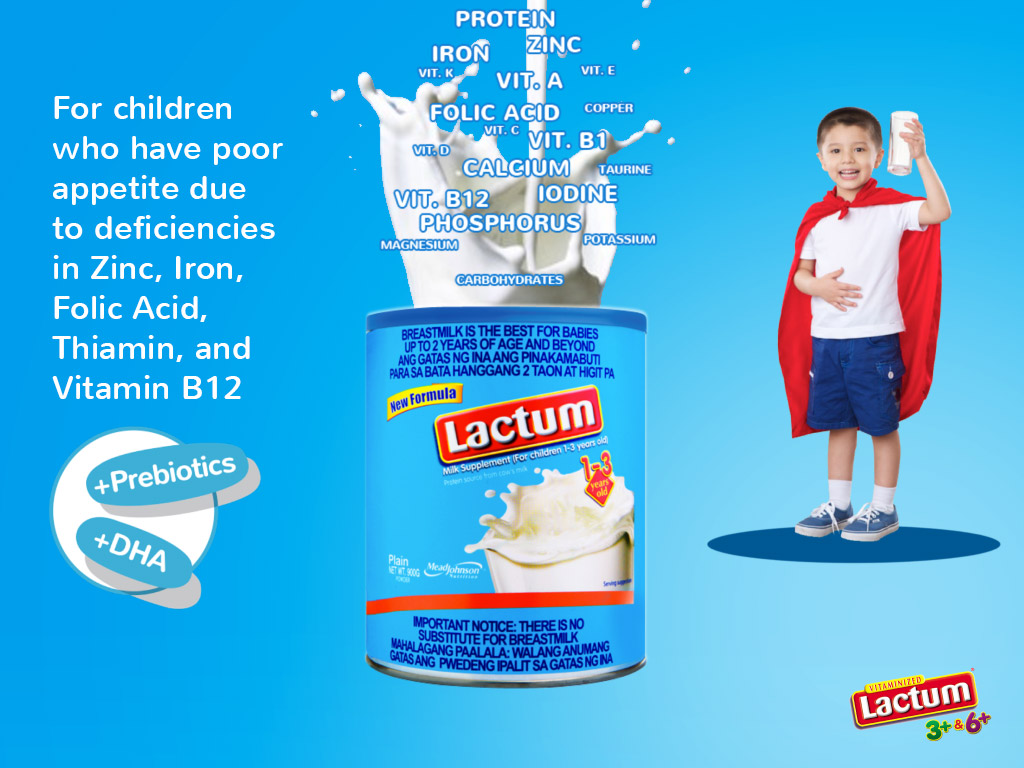
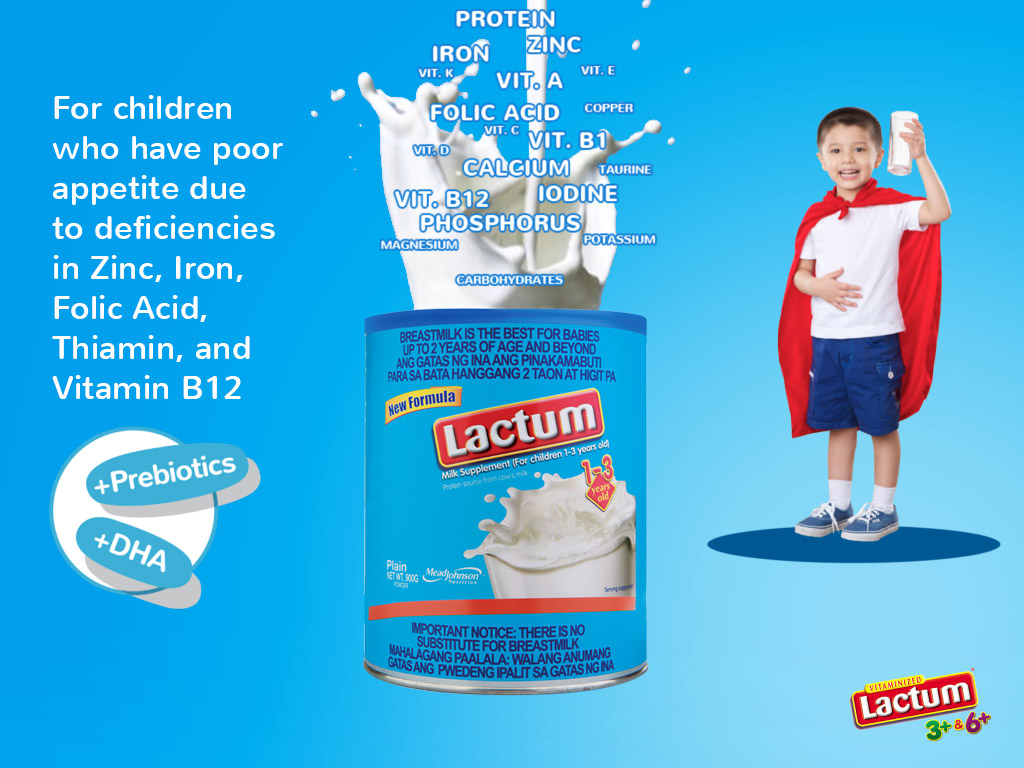
Changes made by Rock Torz (torz@hotmail.ph).

Changed region(s): [[0.3438, 0.375, 0.6562, 0.9062]]

diff --git a/Product Preso/css/main.css b/Product Preso/css/main.css
@@ -366,7 +366,7 @@ a,img { border: 0;outline-width:0;}
 
 /*NEW SLIDE 25*/
 #ns25 { background: url('images/ns25.jpg')}
-#ns25 .ns25a { display: block; position: absolute;left:566px; top: 252px; width:423px ;height: 365px; background: url('images/ns25a.png') }
+#ns25 .ns25a { display: block; position: absolute;left:566px; top: 252px; width:423px ;height: 365px; background: url('images/ns25a2.png') }
 #ns25 .ns25b { display: block; position: absolute;left:88px; top: 488px; width:338px ;height: 29px; background: url('images/ns25b.png') left top }
 
 /*NEW SLIDE 26*/
